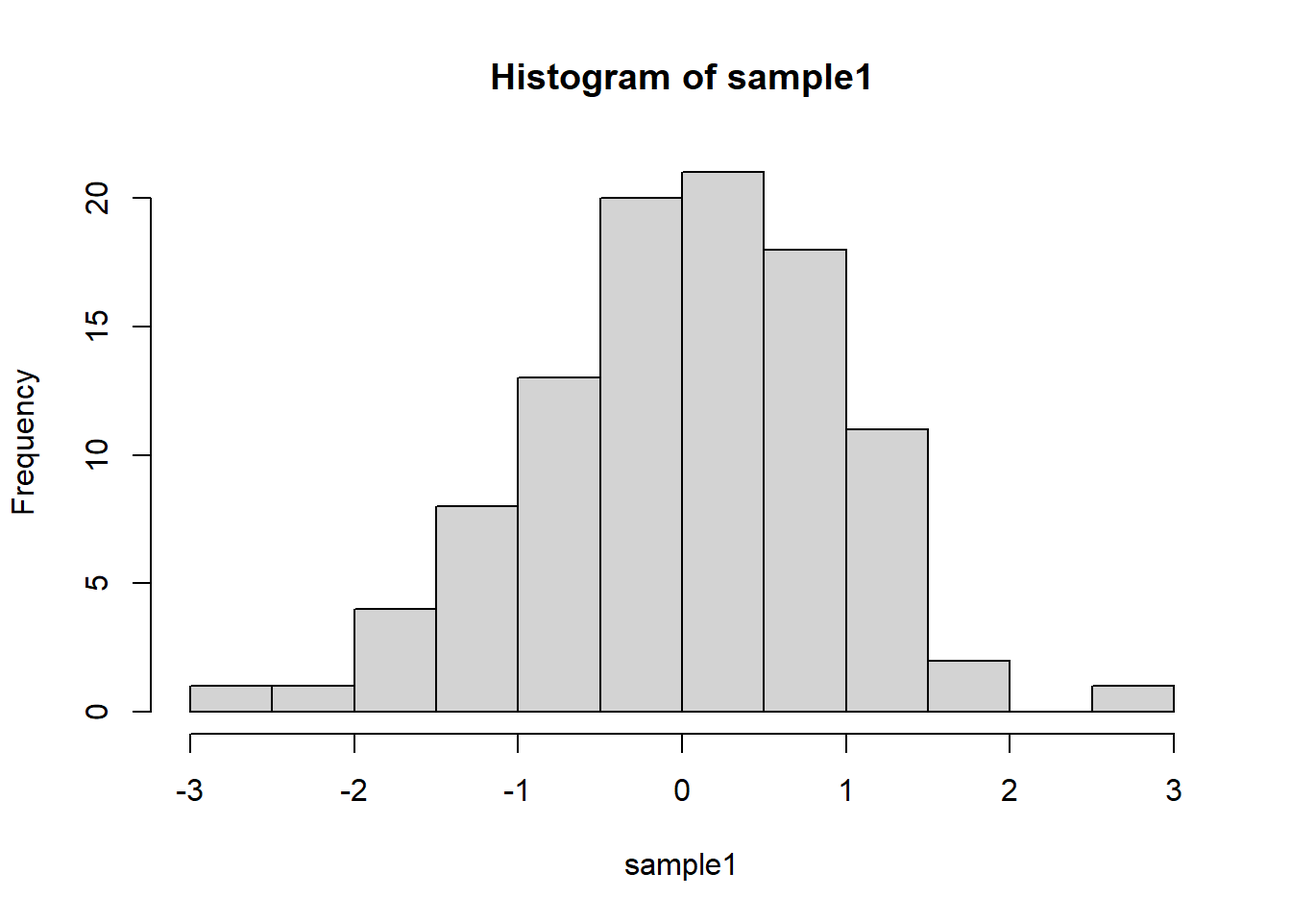
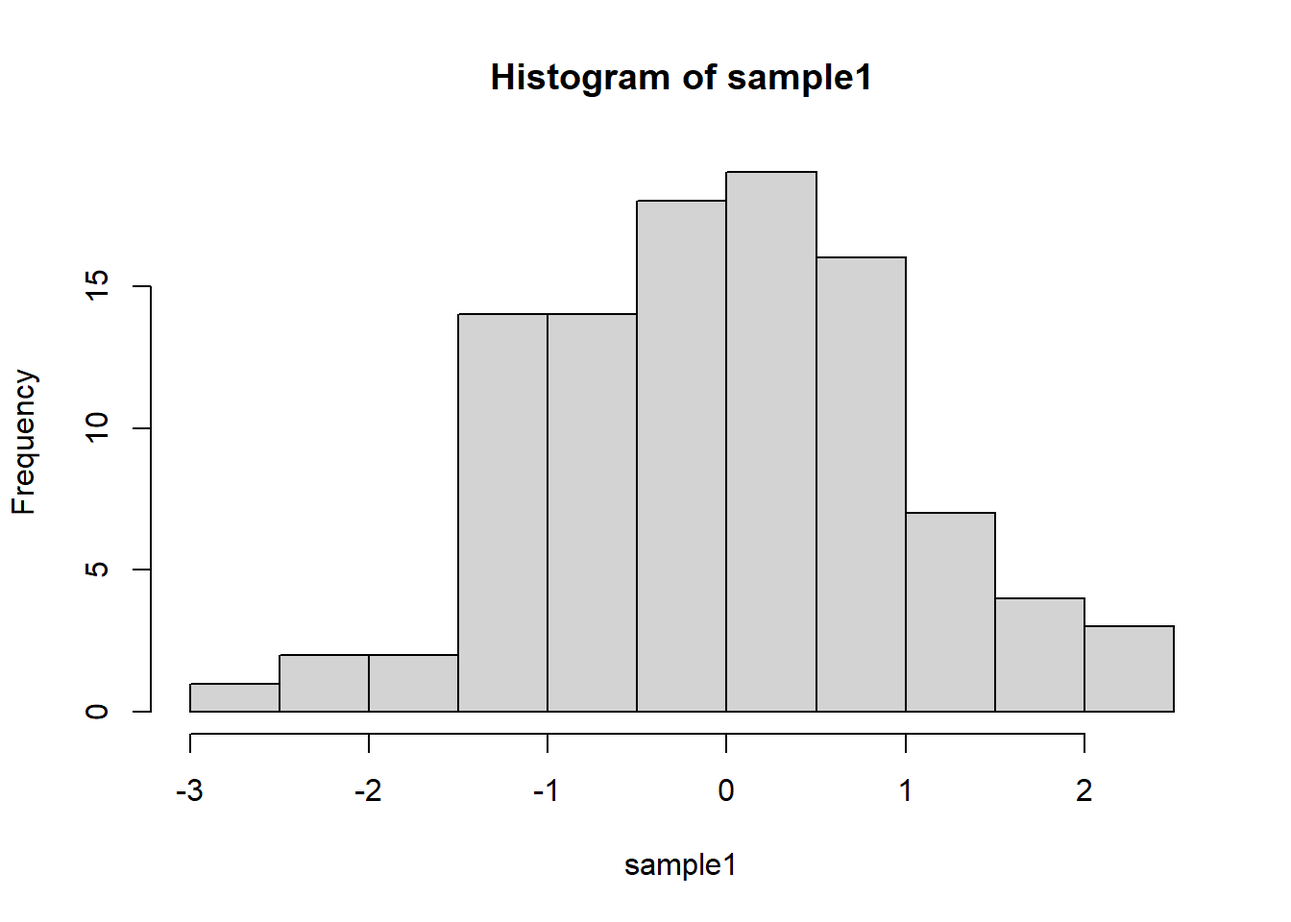
Update Syllabus

diff --git a/docs/S01.html b/docs/S01.html
@@ -753,22 +753,23 @@ div.tocify {
 <p>There are a few useful commands you can use to interact with the <code>R</code> session.</p>
 <p><code>ls()</code> will list all of the variables and functions stored in the global environment (your working <code>R</code> session):</p>
 <div class="sourceCode" id="cb60"><pre class="sourceCode r"><code class="sourceCode r"><span id="cb60-1"><a href="#cb60-1"></a><span class="kw">ls</span>()</span></code></pre></div>
-<pre><code>##  [1] &quot;AQI&quot;               &quot;AQI1&quot;              &quot;AQI2&quot;              &quot;Check_Air_Quality&quot; &quot;Daily_T&quot;           &quot;Day&quot;               &quot;differnce&quot;         &quot;Forecast_List&quot;     &quot;Groupings_A&quot;       &quot;Hour&quot;             
-## [11] &quot;Hourly_T&quot;          &quot;i&quot;                 &quot;Keeling_Data&quot;      &quot;Keeling_Data_tbl&quot;  &quot;mean_A&quot;            &quot;mean_B&quot;            &quot;Month_CO2&quot;         &quot;MyName&quot;            &quot;Obs_A&quot;             &quot;Obs_all&quot;          
-## [21] &quot;Obs_B&quot;             &quot;Obs_difference&quot;    &quot;Output_List&quot;       &quot;Output_Matrix&quot;     &quot;Output_Matrix2&quot;    &quot;sample1&quot;           &quot;sample2&quot;           &quot;Temp_Value&quot;        &quot;x&quot;                 &quot;y&quot;                
-## [31] &quot;z&quot;</code></pre>
+<pre><code>##  [1] &quot;AQI&quot;               &quot;AQI1&quot;              &quot;AQI2&quot;              &quot;Check_Air_Quality&quot; &quot;Daily_T&quot;           &quot;Day&quot;               &quot;difference&quot;        &quot;differnce&quot;         &quot;Forecast_List&quot;     &quot;Groupings_A&quot;      
+## [11] &quot;Hour&quot;              &quot;Hourly_T&quot;          &quot;i&quot;                 &quot;Keeling_Data&quot;      &quot;Keeling_Data_tbl&quot;  &quot;mean_A&quot;            &quot;mean_B&quot;            &quot;Month_CO2&quot;         &quot;MyName&quot;            &quot;Obs_A&quot;            
+## [21] &quot;Obs_all&quot;           &quot;Obs_B&quot;             &quot;Obs_difference&quot;    &quot;Output_List&quot;       &quot;Output_Matrix&quot;     &quot;Output_Matrix2&quot;    &quot;sample1&quot;           &quot;sample2&quot;           &quot;Temp_Value&quot;        &quot;x&quot;                
+## [31] &quot;y&quot;                 &quot;z&quot;</code></pre>
 <p>Note here that we didn’t give any arguments to <code>ls()</code>, but we still needed to give the parentheses <code>()</code> to tell <code>R</code> to call the function.</p>
 <p>You can use <code>rm()</code> to delete objects you no longer need:</p>
 <div class="sourceCode" id="cb62"><pre class="sourceCode r"><code class="sourceCode r"><span id="cb62-1"><a href="#cb62-1"></a><span class="kw">rm</span>(x)</span>
 <span id="cb62-2"><a href="#cb62-2"></a><span class="kw">ls</span>()</span></code></pre></div>
-<pre><code>##  [1] &quot;AQI&quot;               &quot;AQI1&quot;              &quot;AQI2&quot;              &quot;Check_Air_Quality&quot; &quot;Daily_T&quot;           &quot;Day&quot;               &quot;differnce&quot;         &quot;Forecast_List&quot;     &quot;Groupings_A&quot;       &quot;Hour&quot;             
-## [11] &quot;Hourly_T&quot;          &quot;i&quot;                 &quot;Keeling_Data&quot;      &quot;Keeling_Data_tbl&quot;  &quot;mean_A&quot;            &quot;mean_B&quot;            &quot;Month_CO2&quot;         &quot;MyName&quot;            &quot;Obs_A&quot;             &quot;Obs_all&quot;          
-## [21] &quot;Obs_B&quot;             &quot;Obs_difference&quot;    &quot;Output_List&quot;       &quot;Output_Matrix&quot;     &quot;Output_Matrix2&quot;    &quot;sample1&quot;           &quot;sample2&quot;           &quot;Temp_Value&quot;        &quot;y&quot;                 &quot;z&quot;</code></pre>
+<pre><code>##  [1] &quot;AQI&quot;               &quot;AQI1&quot;              &quot;AQI2&quot;              &quot;Check_Air_Quality&quot; &quot;Daily_T&quot;           &quot;Day&quot;               &quot;difference&quot;        &quot;differnce&quot;         &quot;Forecast_List&quot;     &quot;Groupings_A&quot;      
+## [11] &quot;Hour&quot;              &quot;Hourly_T&quot;          &quot;i&quot;                 &quot;Keeling_Data&quot;      &quot;Keeling_Data_tbl&quot;  &quot;mean_A&quot;            &quot;mean_B&quot;            &quot;Month_CO2&quot;         &quot;MyName&quot;            &quot;Obs_A&quot;            
+## [21] &quot;Obs_all&quot;           &quot;Obs_B&quot;             &quot;Obs_difference&quot;    &quot;Output_List&quot;       &quot;Output_Matrix&quot;     &quot;Output_Matrix2&quot;    &quot;sample1&quot;           &quot;sample2&quot;           &quot;Temp_Value&quot;        &quot;y&quot;                
+## [31] &quot;z&quot;</code></pre>
 <div class="sourceCode" id="cb64"><pre class="sourceCode r"><code class="sourceCode r"><span id="cb64-1"><a href="#cb64-1"></a><span class="kw">rm</span>(MyName, y)</span>
 <span id="cb64-2"><a href="#cb64-2"></a><span class="kw">ls</span>()</span></code></pre></div>
-<pre><code>##  [1] &quot;AQI&quot;               &quot;AQI1&quot;              &quot;AQI2&quot;              &quot;Check_Air_Quality&quot; &quot;Daily_T&quot;           &quot;Day&quot;               &quot;differnce&quot;         &quot;Forecast_List&quot;     &quot;Groupings_A&quot;       &quot;Hour&quot;             
-## [11] &quot;Hourly_T&quot;          &quot;i&quot;                 &quot;Keeling_Data&quot;      &quot;Keeling_Data_tbl&quot;  &quot;mean_A&quot;            &quot;mean_B&quot;            &quot;Month_CO2&quot;         &quot;Obs_A&quot;             &quot;Obs_all&quot;           &quot;Obs_B&quot;            
-## [21] &quot;Obs_difference&quot;    &quot;Output_List&quot;       &quot;Output_Matrix&quot;     &quot;Output_Matrix2&quot;    &quot;sample1&quot;           &quot;sample2&quot;           &quot;Temp_Value&quot;        &quot;z&quot;</code></pre>
+<pre><code>##  [1] &quot;AQI&quot;               &quot;AQI1&quot;              &quot;AQI2&quot;              &quot;Check_Air_Quality&quot; &quot;Daily_T&quot;           &quot;Day&quot;               &quot;difference&quot;        &quot;differnce&quot;         &quot;Forecast_List&quot;     &quot;Groupings_A&quot;      
+## [11] &quot;Hour&quot;              &quot;Hourly_T&quot;          &quot;i&quot;                 &quot;Keeling_Data&quot;      &quot;Keeling_Data_tbl&quot;  &quot;mean_A&quot;            &quot;mean_B&quot;            &quot;Month_CO2&quot;         &quot;Obs_A&quot;             &quot;Obs_all&quot;          
+## [21] &quot;Obs_B&quot;             &quot;Obs_difference&quot;    &quot;Output_List&quot;       &quot;Output_Matrix&quot;     &quot;Output_Matrix2&quot;    &quot;sample1&quot;           &quot;sample2&quot;           &quot;Temp_Value&quot;        &quot;z&quot;</code></pre>
 </div>
 <div id="conditional-statements" class="section level2">
 <h2>Conditional statements</h2>
@@ -905,126 +906,126 @@ div.tocify {
 <span id="cb97-4"><a href="#cb97-4"></a>    <span class="kw">print</span>(<span class="kw">paste</span>(Daily_T,Hourly_T))</span>
 <span id="cb97-5"><a href="#cb97-5"></a>  }</span>
 <span id="cb97-6"><a href="#cb97-6"></a>}</span></code></pre></div>
-<pre><code>## [1] &quot;28 25.5433284052683&quot;
-## [1] &quot;28 28.2089195316831&quot;
-## [1] &quot;28 31.9617031037919&quot;
-## [1] &quot;28 28.2728081570474&quot;
-## [1] &quot;28 33.4271787311121&quot;
-## [1] &quot;28 32.5621121805094&quot;
-## [1] &quot;28 31.9997799309953&quot;
-## [1] &quot;28 31.0410739038848&quot;
-## [1] &quot;28 26.9025474600888&quot;
-## [1] &quot;28 23.7162274467531&quot;
-## [1] &quot;28 29.0106581438244&quot;
-## [1] &quot;28 29.2428560656504&quot;
-## [1] &quot;28 31.2268037245491&quot;
-## [1] &quot;28 14.6464382275443&quot;
-## [1] &quot;28 24.658658325979&quot;
-## [1] &quot;28 32.0076004142808&quot;
-## [1] &quot;28 26.1371192028584&quot;
-## [1] &quot;28 22.3337009293163&quot;
-## [1] &quot;28 23.9043077144273&quot;
-## [1] &quot;28 29.0322845425725&quot;
-## [1] &quot;28 23.0534608470161&quot;
-## [1] &quot;28 19.4021772122925&quot;
-## [1] &quot;28 31.702129111754&quot;
-## [1] &quot;28 25.6008997491987&quot;
-## [1] &quot;27 32.1178843887451&quot;
-## [1] &quot;27 24.1356376019819&quot;
-## [1] &quot;27 27.5065701651931&quot;
-## [1] &quot;27 25.7879611175366&quot;
-## [1] &quot;27 23.6754496546991&quot;
-## [1] &quot;27 31.0678291589041&quot;
-## [1] &quot;27 36.7737907918617&quot;
-## [1] &quot;27 23.1139541643161&quot;
-## [1] &quot;27 28.3401235053851&quot;
-## [1] &quot;27 18.6159908321569&quot;
-## [1] &quot;27 31.348974182968&quot;
-## [1] &quot;27 28.27145297111&quot;
-## [1] &quot;27 35.0287408885165&quot;
-## [1] &quot;27 34.2110829211258&quot;
-## [1] &quot;27 29.4730131326626&quot;
-## [1] &quot;27 23.6916814695217&quot;
-## [1] &quot;27 28.4611460162305&quot;
-## [1] &quot;27 25.8714130884754&quot;
-## [1] &quot;27 23.2628393138803&quot;
-## [1] &quot;27 25.2479862500431&quot;
-## [1] &quot;27 24.0911274264709&quot;
-## [1] &quot;27 24.4674321474663&quot;
-## [1] &quot;27 33.3224766083204&quot;
-## [1] &quot;27 39.2098435007159&quot;
-## [1] &quot;28 27.7526582686379&quot;
-## [1] &quot;28 27.6181574471187&quot;
-## [1] &quot;28 36.3395282640915&quot;
-## [1] &quot;28 25.3147565943185&quot;
-## [1] &quot;28 23.6464178595588&quot;
-## [1] &quot;28 32.0557358024702&quot;
-## [1] &quot;28 34.3671977132254&quot;
-## [1] &quot;28 21.8056104722265&quot;
-## [1] &quot;28 30.6760937844903&quot;
-## [1] &quot;28 27.1901944388786&quot;
-## [1] &quot;28 34.5087333287207&quot;
-## [1] &quot;28 33.897178713824&quot;
-## [1] &quot;28 34.580209267892&quot;
-## [1] &quot;28 27.7895028241387&quot;
-## [1] &quot;28 23.6165634814095&quot;
-## [1] &quot;28 23.0575824865658&quot;
-## [1] &quot;28 29.9153172515643&quot;
-## [1] &quot;28 33.8883004371541&quot;
-## [1] &quot;28 21.643184062107&quot;
-## [1] &quot;28 27.4122891657586&quot;
-## [1] &quot;28 20.0441586208477&quot;
-## [1] &quot;28 23.3964956408058&quot;
-## [1] &quot;28 38.2848237667477&quot;
-## [1] &quot;28 30.2111203014123&quot;
-## [1] &quot;26 28.797309330491&quot;
-## [1] &quot;26 29.6064036083369&quot;
-## [1] &quot;26 33.936363748166&quot;
-## [1] &quot;26 30.7702306699475&quot;
-## [1] &quot;26 29.4264813654323&quot;
-## [1] &quot;26 36.9763587359588&quot;
-## [1] &quot;26 30.5018116599213&quot;
-## [1] &quot;26 25.3217336004187&quot;
-## [1] &quot;26 28.5915244753601&quot;
-## [1] &quot;26 23.4733070558122&quot;
-## [1] &quot;26 29.697791244315&quot;
-## [1] &quot;26 25.6728458523515&quot;
-## [1] &quot;26 22.2564043319322&quot;
-## [1] &quot;26 33.6474871393907&quot;
-## [1] &quot;26 27.887412580488&quot;
-## [1] &quot;26 34.0187851865634&quot;
-## [1] &quot;26 27.483597565778&quot;
-## [1] &quot;26 28.4813899084607&quot;
-## [1] &quot;26 23.937133918445&quot;
-## [1] &quot;26 30.5136048748354&quot;
-## [1] &quot;26 31.803433952725&quot;
-## [1] &quot;26 17.7177777978869&quot;
-## [1] &quot;26 28.9892260809268&quot;
-## [1] &quot;26 18.542530417461&quot;
-## [1] &quot;27 26.4392140010954&quot;
-## [1] &quot;27 23.4776968732721&quot;
-## [1] &quot;27 26.293261872383&quot;
-## [1] &quot;27 26.52676831671&quot;
-## [1] &quot;27 30.4486199044716&quot;
-## [1] &quot;27 33.4210444684803&quot;
-## [1] &quot;27 32.6636298629139&quot;
-## [1] &quot;27 35.4656065830769&quot;
-## [1] &quot;27 29.5000835463538&quot;
-## [1] &quot;27 28.2220101970027&quot;
-## [1] &quot;27 30.5362361562807&quot;
-## [1] &quot;27 23.4078350523321&quot;
-## [1] &quot;27 29.6161873835261&quot;
-## [1] &quot;27 29.1136543241206&quot;
-## [1] &quot;27 23.0023086831282&quot;
-## [1] &quot;27 35.2947043093934&quot;
-## [1] &quot;27 31.3905604996903&quot;
-## [1] &quot;27 36.1234204424643&quot;
-## [1] &quot;27 25.0499369492456&quot;
-## [1] &quot;27 24.8439971746429&quot;
-## [1] &quot;27 28.6646778577001&quot;
-## [1] &quot;27 14.8590254266998&quot;
-## [1] &quot;27 32.8199741254189&quot;
-## [1] &quot;27 19.9996730997562&quot;</code></pre>
+<pre><code>## [1] &quot;28 34.8719714737622&quot;
+## [1] &quot;28 27.7353334475828&quot;
+## [1] &quot;28 29.9695162511033&quot;
+## [1] &quot;28 25.4871761539856&quot;
+## [1] &quot;28 31.4792250799123&quot;
+## [1] &quot;28 32.5409414501137&quot;
+## [1] &quot;28 31.3397716939383&quot;
+## [1] &quot;28 30.7587490749891&quot;
+## [1] &quot;28 33.705314532758&quot;
+## [1] &quot;28 27.359181567615&quot;
+## [1] &quot;28 27.243269194712&quot;
+## [1] &quot;28 23.7530859500935&quot;
+## [1] &quot;28 30.4179110567602&quot;
+## [1] &quot;28 27.0033389183995&quot;
+## [1] &quot;28 28.6053499523539&quot;
+## [1] &quot;28 32.5260423224067&quot;
+## [1] &quot;28 30.4374452923208&quot;
+## [1] &quot;28 37.3789742572076&quot;
+## [1] &quot;28 27.0697148181543&quot;
+## [1] &quot;28 25.6963493660656&quot;
+## [1] &quot;28 21.717607413135&quot;
+## [1] &quot;28 27.5483349848679&quot;
+## [1] &quot;28 24.7030004709364&quot;
+## [1] &quot;28 28.2475453309427&quot;
+## [1] &quot;27 30.2344139102902&quot;
+## [1] &quot;27 35.1242932909346&quot;
+## [1] &quot;27 28.2366905103046&quot;
+## [1] &quot;27 37.3468829733775&quot;
+## [1] &quot;27 36.7245595458023&quot;
+## [1] &quot;27 31.9305217963352&quot;
+## [1] &quot;27 24.2776541118638&quot;
+## [1] &quot;27 32.0765948435184&quot;
+## [1] &quot;27 27.8060099504375&quot;
+## [1] &quot;27 25.2608321041068&quot;
+## [1] &quot;27 23.2687743875031&quot;
+## [1] &quot;27 32.2077713069509&quot;
+## [1] &quot;27 24.5038091289632&quot;
+## [1] &quot;27 30.7494098450575&quot;
+## [1] &quot;27 29.3342734461683&quot;
+## [1] &quot;27 30.0850300768001&quot;
+## [1] &quot;27 29.8099774477451&quot;
+## [1] &quot;27 21.272041682673&quot;
+## [1] &quot;27 35.8794153082101&quot;
+## [1] &quot;27 16.7000283063251&quot;
+## [1] &quot;27 26.6773252860595&quot;
+## [1] &quot;27 27.161184472156&quot;
+## [1] &quot;27 25.1326588704899&quot;
+## [1] &quot;27 32.217163691565&quot;
+## [1] &quot;28 31.2921848452881&quot;
+## [1] &quot;28 36.0484481602138&quot;
+## [1] &quot;28 26.7823833624887&quot;
+## [1] &quot;28 32.7525046859509&quot;
+## [1] &quot;28 21.1561367320998&quot;
+## [1] &quot;28 27.6824143129364&quot;
+## [1] &quot;28 42.3179720507555&quot;
+## [1] &quot;28 17.9700152848649&quot;
+## [1] &quot;28 30.0267348351906&quot;
+## [1] &quot;28 29.3050719431972&quot;
+## [1] &quot;28 28.7022723325328&quot;
+## [1] &quot;28 33.5996240062388&quot;
+## [1] &quot;28 20.366053450324&quot;
+## [1] &quot;28 25.7798143786199&quot;
+## [1] &quot;28 23.7234323016187&quot;
+## [1] &quot;28 28.0468992057281&quot;
+## [1] &quot;28 27.0056754707991&quot;
+## [1] &quot;28 32.0674662785681&quot;
+## [1] &quot;28 22.578930672829&quot;
+## [1] &quot;28 22.4527216105602&quot;
+## [1] &quot;28 30.1188135606148&quot;
+## [1] &quot;28 29.6065863988679&quot;
+## [1] &quot;28 25.9918282132078&quot;
+## [1] &quot;28 27.6659041879165&quot;
+## [1] &quot;26 27.4036877310144&quot;
+## [1] &quot;26 25.3604092399015&quot;
+## [1] &quot;26 25.7873244351405&quot;
+## [1] &quot;26 22.4943584865172&quot;
+## [1] &quot;26 32.9654237444859&quot;
+## [1] &quot;26 25.8944474807293&quot;
+## [1] &quot;26 27.2571447141416&quot;
+## [1] &quot;26 28.7682657662555&quot;
+## [1] &quot;26 26.3068271323021&quot;
+## [1] &quot;26 28.5840497945185&quot;
+## [1] &quot;26 25.3632502953423&quot;
+## [1] &quot;26 20.6512952362888&quot;
+## [1] &quot;26 25.7534199284599&quot;
+## [1] &quot;26 31.1595660280633&quot;
+## [1] &quot;26 35.9198394901562&quot;
+## [1] &quot;26 21.3312288406319&quot;
+## [1] &quot;26 29.788537850902&quot;
+## [1] &quot;26 32.5216500956788&quot;
+## [1] &quot;26 27.7039104070786&quot;
+## [1] &quot;26 23.0974876417623&quot;
+## [1] &quot;26 24.5485170503969&quot;
+## [1] &quot;26 32.1611844660039&quot;
+## [1] &quot;26 33.8206838420445&quot;
+## [1] &quot;26 25.2138577172988&quot;
+## [1] &quot;27 22.0348215922728&quot;
+## [1] &quot;27 27.9338547374839&quot;
+## [1] &quot;27 20.1706044819231&quot;
+## [1] &quot;27 29.6181759393833&quot;
+## [1] &quot;27 18.6154892269845&quot;
+## [1] &quot;27 33.8938357467947&quot;
+## [1] &quot;27 29.1206411480423&quot;
+## [1] &quot;27 28.7432664965133&quot;
+## [1] &quot;27 22.6048325286997&quot;
+## [1] &quot;27 22.2641196977484&quot;
+## [1] &quot;27 28.5655308049654&quot;
+## [1] &quot;27 22.5585701795327&quot;
+## [1] &quot;27 22.6065954861477&quot;
+## [1] &quot;27 29.566988967263&quot;
+## [1] &quot;27 24.7597551902506&quot;
+## [1] &quot;27 28.117052255162&quot;
+## [1] &quot;27 24.3198527575559&quot;
+## [1] &quot;27 30.4734842594956&quot;
+## [1] &quot;27 19.5534693320809&quot;
+## [1] &quot;27 31.7266419138767&quot;
+## [1] &quot;27 24.8602975403237&quot;
+## [1] &quot;27 26.9195614189803&quot;
+## [1] &quot;27 23.7127143410007&quot;
+## [1] &quot;27 37.1511328802132&quot;</code></pre>
 <p>Here at each <code>Hour</code> we use the <code>rnorm()</code> function to generate <code>1</code> random Gaussian sample with a mean of <code>Daily_T</code> and a standard deviation of <code>5</code>.</p>
 <p>We notice in the output that when the first index (<code>Daily_T</code>) is set to <code>28</code>, the second index (<code>Hour</code>) iterates through its full set of indices. Once the indices of <code>Hour</code> have been iterated through, then <code>Daily_T</code> moves to the next one (<em>i.e.</em>, <code>27</code>). This process continues until the last index has been used for each <code>for()</code> loop.</p>
 <p>Rather than printing the results, we could write the loop output to a new <em>object</em>:</p>
@@ -1038,20 +1039,20 @@ div.tocify {
 <span id="cb99-8"><a href="#cb99-8"></a>}</span>
 <span id="cb99-9"><a href="#cb99-9"></a></span>
 <span id="cb99-10"><a href="#cb99-10"></a><span class="kw">print</span>(Output_List)</span></code></pre></div>
-<pre><code>##   [1] &quot;28 35.893478722385&quot;  &quot;28 31.5648466524317&quot; &quot;28 29.0506401502902&quot; &quot;28 29.9650676891218&quot; &quot;28 38.9084134700601&quot; &quot;28 31.6535938336917&quot; &quot;28 34.1684800333239&quot; &quot;28 36.407486289107&quot;  &quot;28 28.335269570243&quot; 
-##  [10] &quot;28 31.8338896354568&quot; &quot;28 27.5722672028045&quot; &quot;28 27.7284302619686&quot; &quot;28 30.986087537304&quot;  &quot;28 25.9744158210252&quot; &quot;28 25.4506576085281&quot; &quot;28 18.3911078024451&quot; &quot;28 37.6150672559596&quot; &quot;28 13.3179546669753&quot;
-##  [19] &quot;28 25.0717832848671&quot; &quot;28 27.2595440786174&quot; &quot;28 34.575257821471&quot;  &quot;28 45.7698992702272&quot; &quot;28 30.5350854036575&quot; &quot;28 30.2839715646766&quot; &quot;27 28.5343206766504&quot; &quot;27 24.0743386510057&quot; &quot;27 17.4134701923798&quot;
-##  [28] &quot;27 21.674299719266&quot;  &quot;27 36.4416275190496&quot; &quot;27 33.5394556327215&quot; &quot;27 34.2409763450564&quot; &quot;27 29.0956892173965&quot; &quot;27 27.7248884440362&quot; &quot;27 17.7051926418653&quot; &quot;27 16.355123648166&quot;  &quot;27 16.858985677315&quot; 
-##  [37] &quot;27 37.4874096056488&quot; &quot;27 33.1302232911224&quot; &quot;27 29.9934854098622&quot; &quot;27 25.3055474123309&quot; &quot;27 29.1633486798399&quot; &quot;27 28.7364449131939&quot; &quot;27 20.8180639212777&quot; &quot;27 20.4114297890152&quot; &quot;27 24.8318977208209&quot;
-##  [46] &quot;27 26.5406725207316&quot; &quot;27 20.2020991906207&quot; &quot;27 25.6862752268156&quot; &quot;28 28.1495498073462&quot; &quot;28 18.9137651238446&quot; &quot;28 21.0966337314458&quot; &quot;28 30.4550593405242&quot; &quot;28 30.7502668036117&quot; &quot;28 28.1081984703444&quot;
-##  [55] &quot;28 29.0932944559465&quot; &quot;28 23.0038740832963&quot; &quot;28 15.3635027466467&quot; &quot;28 29.4820876874099&quot; &quot;28 23.1578521019477&quot; &quot;28 35.4896859811005&quot; &quot;28 31.0935720797566&quot; &quot;28 29.2223409678851&quot; &quot;28 18.3819758616949&quot;
-##  [64] &quot;28 26.1919883054905&quot; &quot;28 31.0428267908959&quot; &quot;28 32.4395494356406&quot; &quot;28 30.1198343803599&quot; &quot;28 22.283817398828&quot;  &quot;28 30.6142451952457&quot; &quot;28 34.220747558852&quot;  &quot;28 25.497170365204&quot;  &quot;28 25.4008717498737&quot;
-##  [73] &quot;26 20.223483921489&quot;  &quot;26 32.402839821321&quot;  &quot;26 20.2132026156281&quot; &quot;26 35.1478378192273&quot; &quot;26 26.9077531789704&quot; &quot;26 20.0385999801859&quot; &quot;26 23.8764585126548&quot; &quot;26 27.6307341884783&quot; &quot;26 21.4002847753678&quot;
-##  [82] &quot;26 25.7104593802836&quot; &quot;26 25.0122871609421&quot; &quot;26 31.5367704094808&quot; &quot;26 20.9617513938212&quot; &quot;26 25.7619344422159&quot; &quot;26 29.4838640101586&quot; &quot;26 25.0547368535888&quot; &quot;26 21.5390439118458&quot; &quot;26 17.0904249003107&quot;
-##  [91] &quot;26 28.9430208126405&quot; &quot;26 25.0743975857861&quot; &quot;26 23.0463833987064&quot; &quot;26 24.8238918581987&quot; &quot;26 24.2409485849218&quot; &quot;26 23.0908047077581&quot; &quot;27 25.5462431315245&quot; &quot;27 30.9299028884321&quot; &quot;27 27.660143618539&quot; 
-## [100] &quot;27 38.819038655622&quot;  &quot;27 26.5091504178209&quot; &quot;27 32.215339685094&quot;  &quot;27 27.738886427622&quot;  &quot;27 24.4896656740648&quot; &quot;27 20.8509371864422&quot; &quot;27 24.6265182644096&quot; &quot;27 23.7982470030297&quot; &quot;27 25.0824905628866&quot;
-## [109] &quot;27 30.6100530206792&quot; &quot;27 22.7420002471383&quot; &quot;27 27.657170569106&quot;  &quot;27 25.5276773250234&quot; &quot;27 22.4656811329731&quot; &quot;27 36.5562725071932&quot; &quot;27 25.120499817663&quot;  &quot;27 27.3883501417286&quot; &quot;27 37.9072683475495&quot;
-## [118] &quot;27 29.4884991625933&quot; &quot;27 23.531037121977&quot;  &quot;27 35.6332030813813&quot;</code></pre>
+<pre><code>##   [1] &quot;28 21.3969169404525&quot; &quot;28 24.8301645972492&quot; &quot;28 25.9844969009637&quot; &quot;28 17.0364260595304&quot; &quot;28 31.5122434811226&quot; &quot;28 30.6155984639515&quot; &quot;28 37.1923899242982&quot; &quot;28 34.2550898227812&quot; &quot;28 27.1087486989727&quot;
+##  [10] &quot;28 30.1507512391152&quot; &quot;28 32.5052350798725&quot; &quot;28 27.3136498262796&quot; &quot;28 19.0643215287988&quot; &quot;28 20.6258270849221&quot; &quot;28 29.5972925145638&quot; &quot;28 27.5029987937331&quot; &quot;28 25.9904005090212&quot; &quot;28 31.8997539127133&quot;
+##  [19] &quot;28 36.515161898814&quot;  &quot;28 27.3053874582289&quot; &quot;28 25.2079205041342&quot; &quot;28 38.578710973932&quot;  &quot;28 25.9400584157407&quot; &quot;28 16.0206973336612&quot; &quot;27 23.34360918033&quot;   &quot;27 29.5647285592468&quot; &quot;27 18.2123479143082&quot;
+##  [28] &quot;27 27.8996744882221&quot; &quot;27 27.5864367758282&quot; &quot;27 25.0737543578476&quot; &quot;27 23.8104361203901&quot; &quot;27 15.5034156269063&quot; &quot;27 34.4134534274572&quot; &quot;27 35.2126982512355&quot; &quot;27 29.6676570737599&quot; &quot;27 23.7381446169852&quot;
+##  [37] &quot;27 30.3850412611969&quot; &quot;27 34.2137623765611&quot; &quot;27 20.1117636671767&quot; &quot;27 25.0030639895509&quot; &quot;27 36.1835092746511&quot; &quot;27 23.5978604069639&quot; &quot;27 26.9726625689513&quot; &quot;27 23.1113793736283&quot; &quot;27 19.3425643327787&quot;
+##  [46] &quot;27 30.6550003264656&quot; &quot;27 24.8298489651354&quot; &quot;27 23.7307365979825&quot; &quot;28 38.7291618433474&quot; &quot;28 22.3240930519944&quot; &quot;28 33.1442301446972&quot; &quot;28 29.8691579751411&quot; &quot;28 26.0590892542248&quot; &quot;28 30.0564343701368&quot;
+##  [55] &quot;28 21.7445202613366&quot; &quot;28 23.3028595520484&quot; &quot;28 23.1890892700721&quot; &quot;28 30.8322294369756&quot; &quot;28 28.1406538260397&quot; &quot;28 41.3349076504603&quot; &quot;28 27.2807301129207&quot; &quot;28 36.5343295723179&quot; &quot;28 28.1511716134978&quot;
+##  [64] &quot;28 29.5612932210923&quot; &quot;28 29.0828192920951&quot; &quot;28 36.3467986647878&quot; &quot;28 28.1239259251913&quot; &quot;28 32.7877650159929&quot; &quot;28 31.7955059270578&quot; &quot;28 34.7369690970348&quot; &quot;28 25.8180322195329&quot; &quot;28 24.3909523615843&quot;
+##  [73] &quot;26 26.5201816768418&quot; &quot;26 23.7966356768292&quot; &quot;26 27.805546457&quot;     &quot;26 21.4141415159629&quot; &quot;26 25.7824316048713&quot; &quot;26 30.321821932858&quot;  &quot;26 26.5721749296626&quot; &quot;26 25.0701657068122&quot; &quot;26 26.127360313507&quot; 
+##  [82] &quot;26 21.2219504667355&quot; &quot;26 34.6378180602273&quot; &quot;26 29.6657484979452&quot; &quot;26 34.8454980597046&quot; &quot;26 20.7829447063775&quot; &quot;26 29.9405482081817&quot; &quot;26 30.1306230865379&quot; &quot;26 23.5685863011092&quot; &quot;26 24.7769083332703&quot;
+##  [91] &quot;26 19.7923291599214&quot; &quot;26 32.9364551748388&quot; &quot;26 24.2169860791491&quot; &quot;26 29.5581420087276&quot; &quot;26 29.5093909021821&quot; &quot;26 33.6132626166295&quot; &quot;27 28.3852362284709&quot; &quot;27 24.5934981335083&quot; &quot;27 21.1593106905373&quot;
+## [100] &quot;27 25.3561633141013&quot; &quot;27 32.7617145108273&quot; &quot;27 31.2631833177122&quot; &quot;27 29.4419034913231&quot; &quot;27 26.8132784295513&quot; &quot;27 25.2167309244525&quot; &quot;27 21.6958887013118&quot; &quot;27 27.136389076405&quot;  &quot;27 23.4498147547031&quot;
+## [109] &quot;27 32.444196024066&quot;  &quot;27 25.7929104492671&quot; &quot;27 35.759093209991&quot;  &quot;27 31.2578119018742&quot; &quot;27 27.4006189529557&quot; &quot;27 23.8968953767328&quot; &quot;27 26.0127646231778&quot; &quot;27 36.3471363517728&quot; &quot;27 25.0772269231348&quot;
+## [118] &quot;27 23.4857641979175&quot; &quot;27 28.0685300570776&quot; &quot;27 26.5330265112338&quot;</code></pre>
 <p>This approach can be useful, but “growing your results” (building the result object incrementally) is <strong>computationally inefficient</strong>, so avoid it when you are iterating through a lot of values.</p>
 <p><strong>Important</strong>: One of the biggest things that trips up novices and experienced <code>R</code> users alike, is building a results object (<em>vector</em>, <em>list</em>, <em>matrix</em>, <em>data frame</em>) as your for loop progresses. Computers are very bad at handling this, so your calculations can very quickly slow to a crawl. It’s much better to define an <strong>empty results object</strong> beforehand of appropriate dimensions, rather than initializing an empty object without dimensions. So if you know the end result will be stored in a matrix-like above, create an empty matrix with <code>5</code> row and <code>24</code> columns, then at each iteration stores the results in the appropriate location.</p>
 <div class="sourceCode" id="cb101"><pre class="sourceCode r"><code class="sourceCode r"><span id="cb101-1"><a href="#cb101-1"></a>Output_Matrix    &lt;-<span class="st"> </span><span class="kw">matrix</span>(<span class="dt">nrow=</span><span class="dv">5</span>, <span class="dt">ncol=</span><span class="dv">24</span>)</span>
@@ -1065,20 +1066,20 @@ div.tocify {
 <span id="cb101-9"><a href="#cb101-9"></a>}</span>
 <span id="cb101-10"><a href="#cb101-10"></a>Output_Matrix2 &lt;-<span class="st"> </span><span class="kw">as.vector</span>(Output_Matrix)</span>
 <span id="cb101-11"><a href="#cb101-11"></a>Output_Matrix2</span></code></pre></div>
-<pre><code>##   [1] &quot;28 33.7022534026453&quot; &quot;27 34.3495507828465&quot; &quot;28 23.2601615060397&quot; &quot;26 35.8042326575561&quot; &quot;27 20.2363491363552&quot; &quot;28 26.8391416631719&quot; &quot;27 36.9584641834521&quot; &quot;28 12.1161678719078&quot; &quot;26 26.3849881893546&quot;
-##  [10] &quot;27 27.7286631727701&quot; &quot;28 32.5542136077381&quot; &quot;27 15.7296920060128&quot; &quot;28 21.8630484300929&quot; &quot;26 16.8751662155635&quot; &quot;27 33.4290073451324&quot; &quot;28 32.4108021850103&quot; &quot;27 31.6539176400203&quot; &quot;28 23.4257746436444&quot;
-##  [19] &quot;26 24.2897075549496&quot; &quot;27 31.4937187933381&quot; &quot;28 23.0648846078933&quot; &quot;27 21.5743175343364&quot; &quot;28 30.7737620269349&quot; &quot;26 39.0446423391805&quot; &quot;27 26.695093034366&quot;  &quot;28 29.7163672202562&quot; &quot;27 26.8582000331337&quot;
-##  [28] &quot;28 29.4763359109537&quot; &quot;26 26.8914305836514&quot; &quot;27 35.3442944019124&quot; &quot;28 27.722252426784&quot;  &quot;27 29.801207573402&quot;  &quot;28 14.9806217233386&quot; &quot;26 19.8594426825411&quot; &quot;27 20.6132427407283&quot; &quot;28 30.4421701528511&quot;
-##  [37] &quot;27 25.4560837242639&quot; &quot;28 36.2986975919592&quot; &quot;26 27.3007712551902&quot; &quot;27 24.6259754365032&quot; &quot;28 35.5685332318674&quot; &quot;27 22.60098936793&quot;   &quot;28 24.1159761777087&quot; &quot;26 18.1595035387508&quot; &quot;27 33.5972002184268&quot;
-##  [46] &quot;28 22.413679283479&quot;  &quot;27 26.3887835120131&quot; &quot;28 27.4450017643377&quot; &quot;26 20.5872391751863&quot; &quot;27 30.2616747548227&quot; &quot;28 37.0262360471992&quot; &quot;27 34.3467237656514&quot; &quot;28 28.7089714473821&quot; &quot;26 28.3443366592582&quot;
-##  [55] &quot;27 24.9005602672107&quot; &quot;28 22.5724104495223&quot; &quot;27 34.3738736830629&quot; &quot;28 27.2124768618856&quot; &quot;26 21.2829620002247&quot; &quot;27 26.6699336272471&quot; &quot;28 21.2942517728483&quot; &quot;27 32.8029032763668&quot; &quot;28 29.6510581076071&quot;
-##  [64] &quot;26 25.194145712199&quot;  &quot;27 22.2982969810773&quot; &quot;28 33.8680358743776&quot; &quot;27 25.1373180036815&quot; &quot;28 16.6316856749967&quot; &quot;26 22.8660367113161&quot; &quot;27 25.7305401405672&quot; &quot;28 27.8649029937512&quot; &quot;27 34.9006929562968&quot;
-##  [73] &quot;28 24.7579316404607&quot; &quot;26 18.1021993237303&quot; &quot;27 30.8704030283709&quot; &quot;28 25.4522241945403&quot; &quot;27 36.0139709888077&quot; &quot;28 24.9998670527733&quot; &quot;26 23.3862231504512&quot; &quot;27 29.5701821447226&quot; &quot;28 35.2859362166032&quot;
-##  [82] &quot;27 24.841018665134&quot;  &quot;28 32.8613966189011&quot; &quot;26 19.7468045258869&quot; &quot;27 28.4280077961584&quot; &quot;28 32.473836107627&quot;  &quot;27 28.4212301045051&quot; &quot;28 25.8199219032707&quot; &quot;26 25.023842779851&quot;  &quot;27 24.7814631483914&quot;
-##  [91] &quot;28 26.6936571668193&quot; &quot;27 24.5696997705725&quot; &quot;28 27.5620957805133&quot; &quot;26 31.6621697361977&quot; &quot;27 28.8926666555856&quot; &quot;28 32.0312498749309&quot; &quot;27 33.7780067973932&quot; &quot;28 20.5488555399028&quot; &quot;26 28.6677277979352&quot;
-## [100] &quot;27 31.3942518733515&quot; &quot;28 27.8134134857315&quot; &quot;27 26.1385775591347&quot; &quot;28 15.5589694570431&quot; &quot;26 30.5928757503931&quot; &quot;27 29.5896491475297&quot; &quot;28 28.6864462589614&quot; &quot;27 24.0962690383983&quot; &quot;28 42.9808959746676&quot;
-## [109] &quot;26 23.7600026029603&quot; &quot;27 32.3751595952636&quot; &quot;28 34.0564950687175&quot; &quot;27 23.2099076035676&quot; &quot;28 24.1812478161326&quot; &quot;26 29.4266148433491&quot; &quot;27 35.0622842028543&quot; &quot;28 33.5802117509828&quot; &quot;27 28.1620604212821&quot;
-## [118] &quot;28 32.8229543600764&quot; &quot;26 17.890892002185&quot;  &quot;27 21.6581129190636&quot;</code></pre>
+<pre><code>##   [1] &quot;28 22.8206892832168&quot; &quot;27 29.5411661355875&quot; &quot;28 25.8870079815068&quot; &quot;26 31.4788957904571&quot; &quot;27 35.0837023483843&quot; &quot;28 16.7001572953767&quot; &quot;27 25.5263095277811&quot; &quot;28 23.0788998853033&quot; &quot;26 27.6096708389549&quot;
+##  [10] &quot;27 33.4608190417378&quot; &quot;28 34.5811998650282&quot; &quot;27 29.3418552025578&quot; &quot;28 29.39949942394&quot;   &quot;26 20.8149524906053&quot; &quot;27 26.8290946600557&quot; &quot;28 19.130016209132&quot;  &quot;27 29.9840925489973&quot; &quot;28 31.8897219589411&quot;
+##  [19] &quot;26 27.4846409145839&quot; &quot;27 22.3749386921714&quot; &quot;28 31.2556849947148&quot; &quot;27 24.1756765117399&quot; &quot;28 23.9832617288476&quot; &quot;26 31.376516678368&quot;  &quot;27 20.9911575932721&quot; &quot;28 28.0064368366278&quot; &quot;27 22.8225548932931&quot;
+##  [28] &quot;28 26.9614679261836&quot; &quot;26 18.9848361953263&quot; &quot;27 22.9085660607098&quot; &quot;28 17.328040503849&quot;  &quot;27 30.3355898062367&quot; &quot;28 31.978987008474&quot;  &quot;26 30.7930412212333&quot; &quot;27 24.4250701518506&quot; &quot;28 23.17002772023&quot;  
+##  [37] &quot;27 30.5206773267318&quot; &quot;28 23.1177532287686&quot; &quot;26 26.8206781903527&quot; &quot;27 26.8034960342468&quot; &quot;28 27.247662542846&quot;  &quot;27 25.9401470797148&quot; &quot;28 37.0840425748017&quot; &quot;26 26.3623696006803&quot; &quot;27 23.027714600773&quot; 
+##  [46] &quot;28 25.0991733199381&quot; &quot;27 36.2979817510091&quot; &quot;28 23.7236886105809&quot; &quot;26 11.5384437494676&quot; &quot;27 14.1333334372931&quot; &quot;28 32.6181474663427&quot; &quot;27 25.1204645971427&quot; &quot;28 31.2665209155035&quot; &quot;26 21.1001200228294&quot;
+##  [55] &quot;27 18.8033291530163&quot; &quot;28 21.1077991835084&quot; &quot;27 25.6159084026724&quot; &quot;28 34.61817495851&quot;   &quot;26 27.1813878163153&quot; &quot;27 32.8820686090227&quot; &quot;28 37.3924614938786&quot; &quot;27 25.5109701981826&quot; &quot;28 27.7194189953391&quot;
+##  [64] &quot;26 24.4611709130911&quot; &quot;27 19.018663905966&quot;  &quot;28 19.0864304558351&quot; &quot;27 23.8162283937423&quot; &quot;28 33.8789388972019&quot; &quot;26 22.1329372960738&quot; &quot;27 28.363300776344&quot;  &quot;28 31.3381139668755&quot; &quot;27 24.7858579551817&quot;
+##  [73] &quot;28 21.801176925349&quot;  &quot;26 33.2719199580071&quot; &quot;27 23.5510234806547&quot; &quot;28 29.9840996494457&quot; &quot;27 31.8778903028327&quot; &quot;28 32.1572815644937&quot; &quot;26 21.562728294935&quot;  &quot;27 21.8460496250173&quot; &quot;28 26.151938665424&quot; 
+##  [82] &quot;27 38.514515482506&quot;  &quot;28 33.9797417209355&quot; &quot;26 27.621782496264&quot;  &quot;27 18.2925620417558&quot; &quot;28 27.1364236555878&quot; &quot;27 29.6798523327253&quot; &quot;28 31.1892949015542&quot; &quot;26 26.158083326542&quot;  &quot;27 36.0894105566002&quot;
+##  [91] &quot;28 38.1481254822868&quot; &quot;27 24.9389256119014&quot; &quot;28 24.8590039369534&quot; &quot;26 22.9272050561722&quot; &quot;27 25.9310413822057&quot; &quot;28 24.0482822939668&quot; &quot;27 28.5477295006185&quot; &quot;28 24.9605344997297&quot; &quot;26 17.4049246755794&quot;
+## [100] &quot;27 25.7880971098001&quot; &quot;28 28.3676096632244&quot; &quot;27 20.744109010575&quot;  &quot;28 24.4131981666636&quot; &quot;26 27.4255584536532&quot; &quot;27 26.9639989889689&quot; &quot;28 30.739146218192&quot;  &quot;27 22.9837134410216&quot; &quot;28 27.400703565078&quot; 
+## [109] &quot;26 36.0087035366039&quot; &quot;27 25.4824547404328&quot; &quot;28 33.2155082455775&quot; &quot;27 23.7844233612968&quot; &quot;28 28.5427738936368&quot; &quot;26 21.4431342100818&quot; &quot;27 17.6080063754021&quot; &quot;28 29.3003122469468&quot; &quot;27 23.1890884903862&quot;
+## [118] &quot;28 22.4999851596123&quot; &quot;26 26.4638948780769&quot; &quot;27 29.9889033814897&quot;</code></pre>
 <p>Here we use <code>matrix()</code> to create an empty matrix with <code>5</code> rows and <code>24</code> columns, and use <code>as.vector()</code> to convert the <code>5x24</code> matrix into a vector with a length of <code>120</code>.</p>
 <p>Sometimes you will find yourself needing to repeat an operation as long as a certain condition is met. You can do this with a <code>while()</code> loop.</p>
 <div class="sourceCode" id="cb103"><pre class="sourceCode r"><code class="sourceCode r"><span id="cb103-1"><a href="#cb103-1"></a>z &lt;-<span class="st"> </span><span class="dv">0</span></span>

diff --git a/docs/S03.html b/docs/S03.html
@@ -619,16 +619,16 @@ div.tocify {
 <p><img src="S03_files/figure-html/unnamed-chunk-2-1.png" width="672" /></p>
 <div class="sourceCode" id="cb3"><pre class="sourceCode r"><code class="sourceCode r"><span id="cb3-1"><a href="#cb3-1"></a><span class="co"># Check the average and sd</span></span>
 <span id="cb3-2"><a href="#cb3-2"></a><span class="kw">mean</span>(sample1)</span></code></pre></div>
-<pre><code>## [1] 0.01772334</code></pre>
+<pre><code>## [1] -0.04609764</code></pre>
 <div class="sourceCode" id="cb5"><pre class="sourceCode r"><code class="sourceCode r"><span id="cb5-1"><a href="#cb5-1"></a><span class="kw">sd</span>(sample1)</span></code></pre></div>
-<pre><code>## [1] 0.9247305</code></pre>
+<pre><code>## [1] 1.01408</code></pre>
 <div class="sourceCode" id="cb7"><pre class="sourceCode r"><code class="sourceCode r"><span id="cb7-1"><a href="#cb7-1"></a><span class="co"># Compute the skewness, here we need load the moments package</span></span>
 <span id="cb7-2"><a href="#cb7-2"></a><span class="kw">library</span>(moments)</span>
 <span id="cb7-3"><a href="#cb7-3"></a><span class="kw">skewness</span>(sample1)</span></code></pre></div>
-<pre><code>## [1] -0.2064167</code></pre>
+<pre><code>## [1] 0.09201029</code></pre>
 <div class="sourceCode" id="cb9"><pre class="sourceCode r"><code class="sourceCode r"><span id="cb9-1"><a href="#cb9-1"></a><span class="co"># Compute the kurtosis</span></span>
 <span id="cb9-2"><a href="#cb9-2"></a><span class="kw">kurtosis</span>(sample1)</span></code></pre></div>
-<pre><code>## [1] 3.177272</code></pre>
+<pre><code>## [1] 2.841523</code></pre>
 <div class="sourceCode" id="cb11"><pre class="sourceCode r"><code class="sourceCode r"><span id="cb11-1"><a href="#cb11-1"></a><span class="co"># Make a log-normal</span></span>
 <span id="cb11-2"><a href="#cb11-2"></a>sample2 &lt;-<span class="st"> </span><span class="kw">exp</span>(sample1<span class="op">+</span><span class="dv">10</span>)</span>
 <span id="cb11-3"><a href="#cb11-3"></a></span>
@@ -636,13 +636,13 @@ div.tocify {
 <span id="cb11-5"><a href="#cb11-5"></a><span class="kw">hist</span>(sample2)</span></code></pre></div>
 <p><img src="S03_files/figure-html/unnamed-chunk-2-2.png" width="672" /></p>
 <div class="sourceCode" id="cb12"><pre class="sourceCode r"><code class="sourceCode r"><span id="cb12-1"><a href="#cb12-1"></a><span class="kw">mean</span>(sample2)</span></code></pre></div>
-<pre><code>## [1] 33574.82</code></pre>
+<pre><code>## [1] 35217.41</code></pre>
 <div class="sourceCode" id="cb14"><pre class="sourceCode r"><code class="sourceCode r"><span id="cb14-1"><a href="#cb14-1"></a><span class="kw">sd</span>(sample2)</span></code></pre></div>
-<pre><code>## [1] 36789.25</code></pre>
+<pre><code>## [1] 44295.36</code></pre>
 <div class="sourceCode" id="cb16"><pre class="sourceCode r"><code class="sourceCode r"><span id="cb16-1"><a href="#cb16-1"></a><span class="kw">skewness</span>(sample2)</span></code></pre></div>
-<pre><code>## [1] 3.926564</code></pre>
+<pre><code>## [1] 3.166307</code></pre>
 <div class="sourceCode" id="cb18"><pre class="sourceCode r"><code class="sourceCode r"><span id="cb18-1"><a href="#cb18-1"></a><span class="kw">kurtosis</span>(sample2)</span></code></pre></div>
-<pre><code>## [1] 25.33034</code></pre>
+<pre><code>## [1] 14.79272</code></pre>
 <hr />
 </div>
 </div>

diff --git a/docs/Syllabus.html b/docs/Syllabus.html
@@ -331,7 +331,7 @@ Weitao Fu<br />
 <em>School of Environmental Science and Engineering<br />
 Office: 903B, CoE North<br />
 Email: <a href="mailto:12232237@mail.sustech.edu.cn" class="email">12232237@mail.sustech.edu.cn</a><br />
-Office Hours: TBD</em></p>
+Office Hours: Thursday 14:00-17:00</em></p>
 <p><strong>Credit</strong><br />
 The course has a credit of 3.0, with a total class hour of 48.</p>
 <p><strong>Course Description</strong><br />
